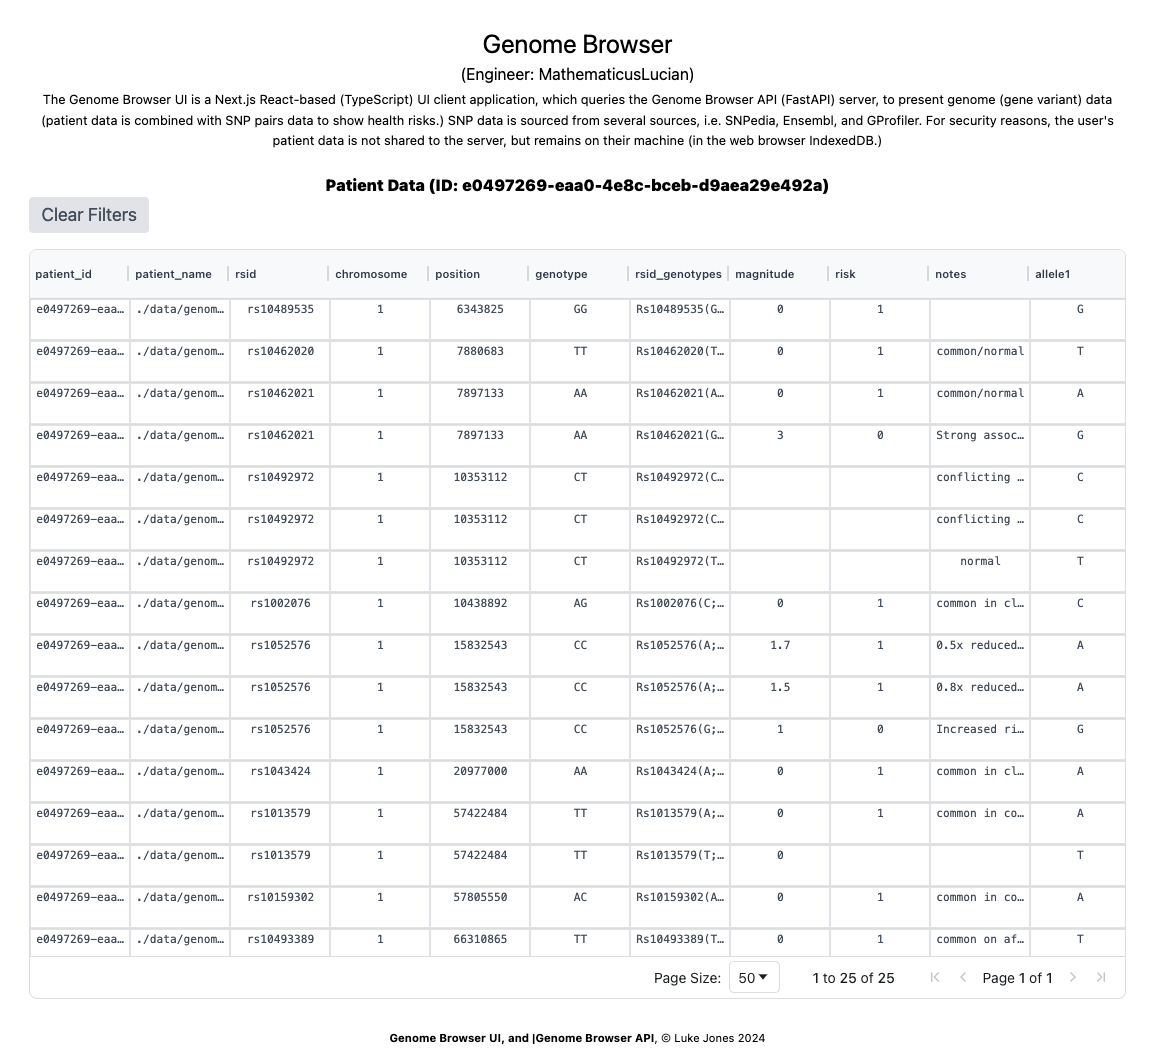
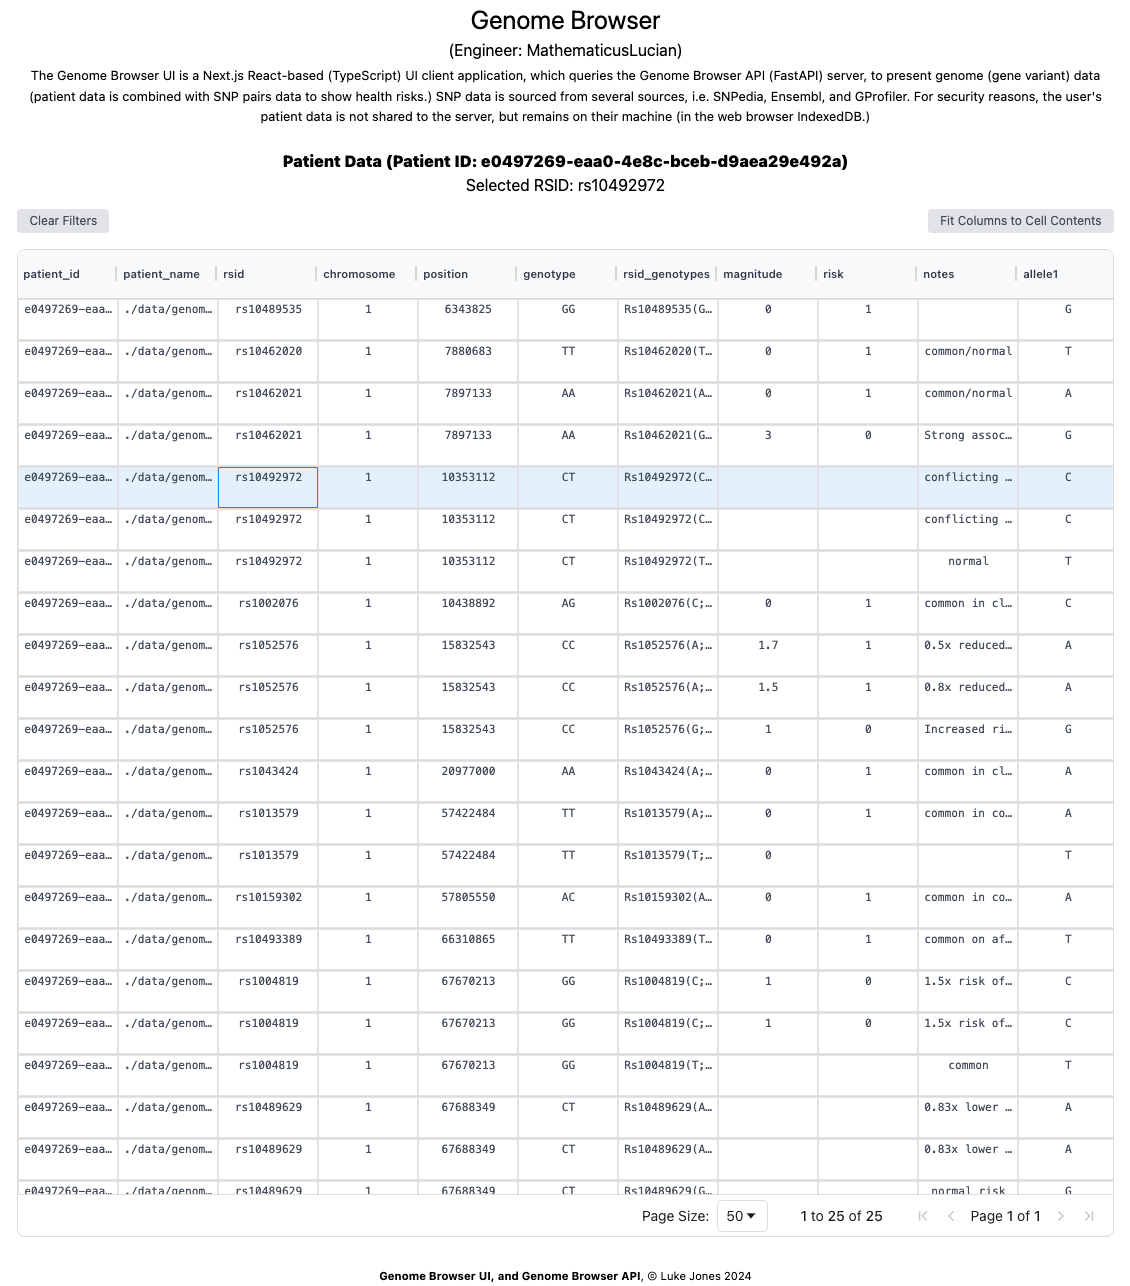
Updated README

Changed region(s): [[0.0, 0.1519, 0.9912, 1.0], [0.031, 0.0, 0.9602, 0.1823], [0.8053, 0.1519, 0.9912, 0.1823]]

diff --git a/pages/patient/report/[[...patient_id]].tsx b/pages/patient/report/[[...patient_id]].tsx
@@ -7,6 +7,7 @@ const GenericPage = () => {
     const [rowData, setRowData] = useState([]);
     const [columnDefs, setColumnDefs] = useState([]); 
     const [error, setError] = useState(null);
+    const [selectedDataRow, setSelectedDataRow] = useState<string | null>(null);
 
     const router = useRouter();
     const { patient_id } = router.query;
@@ -37,7 +38,11 @@ const GenericPage = () => {
     
     useEffect(() => { 
         fetchData();
-    }, []); 
+    }, [patient_id]); 
+
+    const handleSelectedDataRowChange = (selectedDataRow: string) => {
+        setSelectedDataRow(selectedDataRow); 
+    };
 
     return (
         <Layout>
@@ -45,8 +50,9 @@ const GenericPage = () => {
                 <div>Error: {error}</div>
             ) : (
                 <div>
-                    <div className="table-header">Patient Data (ID: {patient_id})</div>
-                    <TableGrid rowData={rowData} columnDefs={columnDefs} error={error} />
+                    <div className="table-header">Patient Data (Patient ID: {patient_id})</div>
+                    {selectedDataRow && <div>Selected RSID: {selectedDataRow.rsid}</div>}
+                    <TableGrid rowData={rowData} columnDefs={columnDefs} error={error} onSelectedDataRowChange={handleSelectedDataRowChange} />
                 </div>
             )}
             <style jsx>{`

diff --git a/pages/patient/list/[[...patient_id]].tsx b/pages/patient/list/[[...patient_id]].tsx
@@ -7,6 +7,7 @@ const GenericPage = () => {
     const [rowData, setRowData] = useState([]);
     const [columnDefs, setColumnDefs] = useState([]); 
     const [error, setError] = useState(null);
+    const [selectedDataRow, setSelectedDataRow] = useState<string | null>(null);
 
     const router = useRouter();
     const { patient_id } = router.query;
@@ -37,7 +38,11 @@ const GenericPage = () => {
     
     useEffect(() => { 
         fetchData();
-    }, []); 
+    }, [patient_id]); 
+
+    const handleSelectedDataRowChange = (selectedDataRow: string) => {
+        setSelectedDataRow(selectedDataRow); 
+    };
 
     return (
         <Layout>
@@ -46,7 +51,8 @@ const GenericPage = () => {
             ) : (
                 <div>
                     <div className="table-header">List of Patients</div>
-                    <TableGrid rowData={rowData} columnDefs={columnDefs} error={error} />
+                    {selectedDataRow && <div>Selected Patient ID: {selectedDataRow.patient_id}</div>}
+                    <TableGrid rowData={rowData} columnDefs={columnDefs} error={error} onSelectedDataRowChange={handleSelectedDataRowChange} />
                 </div>
             )}
             <style jsx>{`

diff --git a/components/TableGrid.tsx b/components/TableGrid.tsx
@@ -19,13 +19,14 @@ interface RowData {
   total: number;
 }
 
-interface MyComponentProps {
+interface TableGridProps {
     rowData: any;
     columnDefs: any;
     error?: any;
+    onSelectedDataRowChange: (dataRow: string) => void;
 }
 
-const Grid: React.FC<MyComponentProps> = ({ rowData, columnDefs, error }) => {
+const TableGrid: React.FC<TableGridProps> = ({ rowData, columnDefs, error, onSelectedDataRowChange }) => {
   const gridRef = useRef<AgGridReact<any>>(null);
   
   const [gridApi, setGridApi] = useState<agGrid.GridApi | null>(null);
@@ -44,7 +45,8 @@ const Grid: React.FC<MyComponentProps> = ({ rowData, columnDefs, error }) => {
     setGridColumnApi(params.columnApi);
     params.api.addGlobalListener((type: string, e) => {
       if (type === "rowClicked" || type === "rowSelected") {
-        console.log(e.type, e.data.patient_id); 
+        console.log(e.type, e.data); 
+        onSelectedDataRowChange(e.data);
       }
     });
   }; 
@@ -146,7 +148,7 @@ const Grid: React.FC<MyComponentProps> = ({ rowData, columnDefs, error }) => {
   );
 };
 
-export default Grid;
+export default TableGrid;
 <style jsx>{`
   main {
   }
